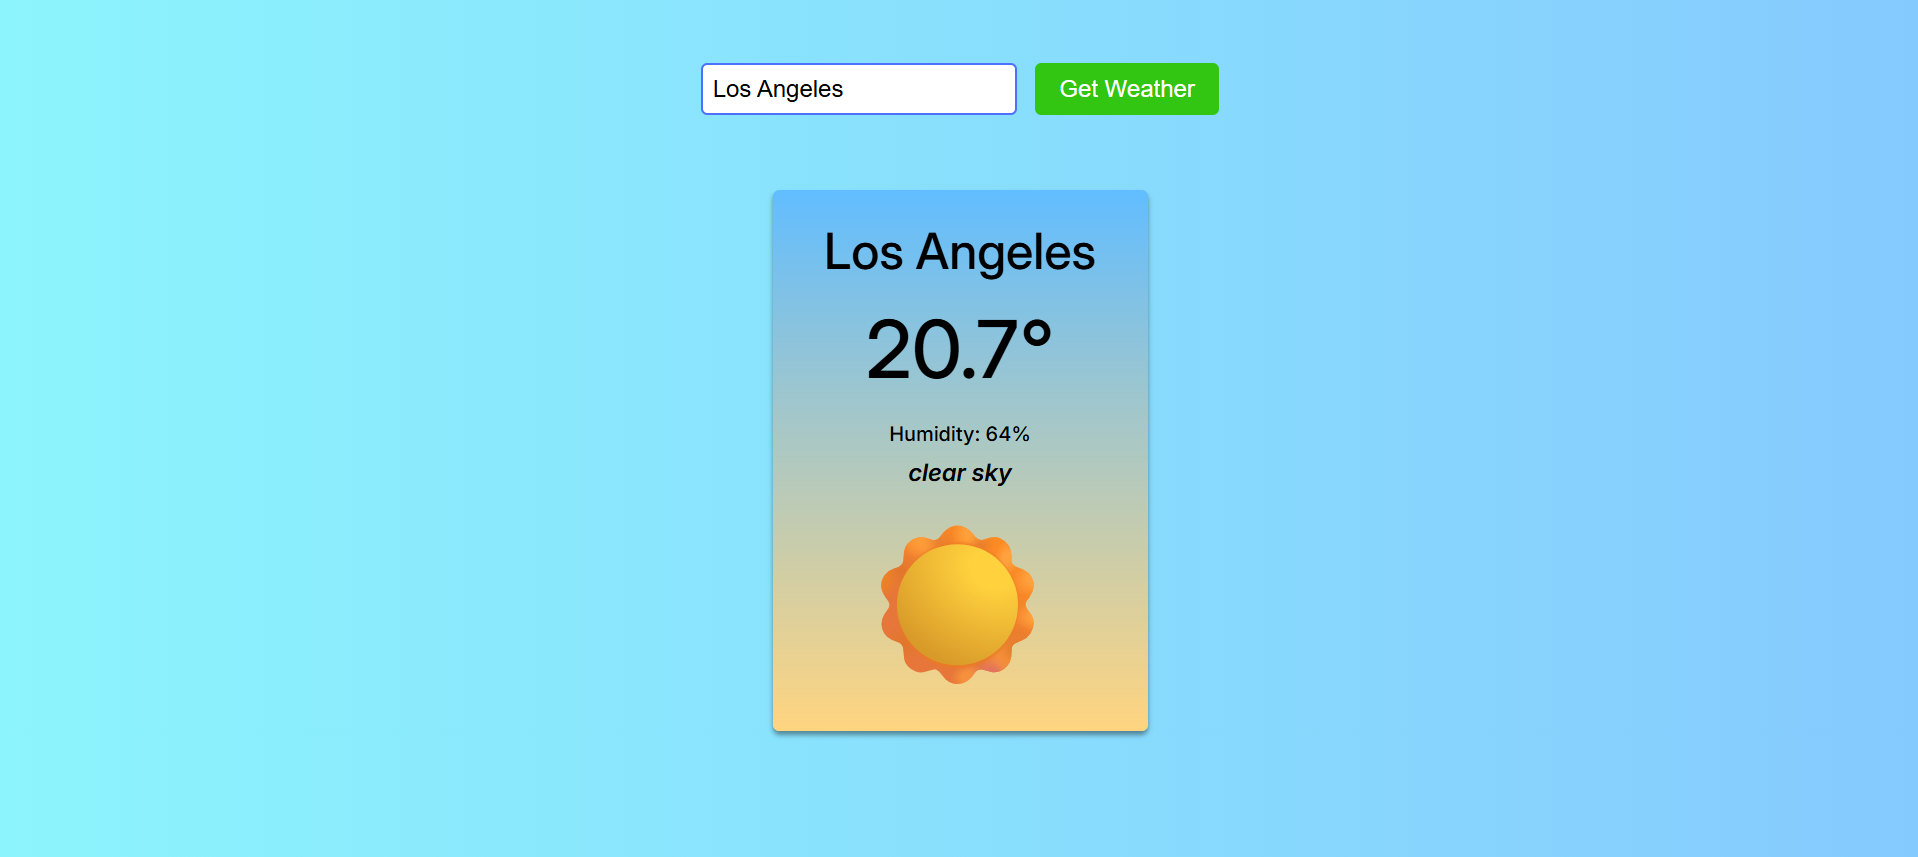
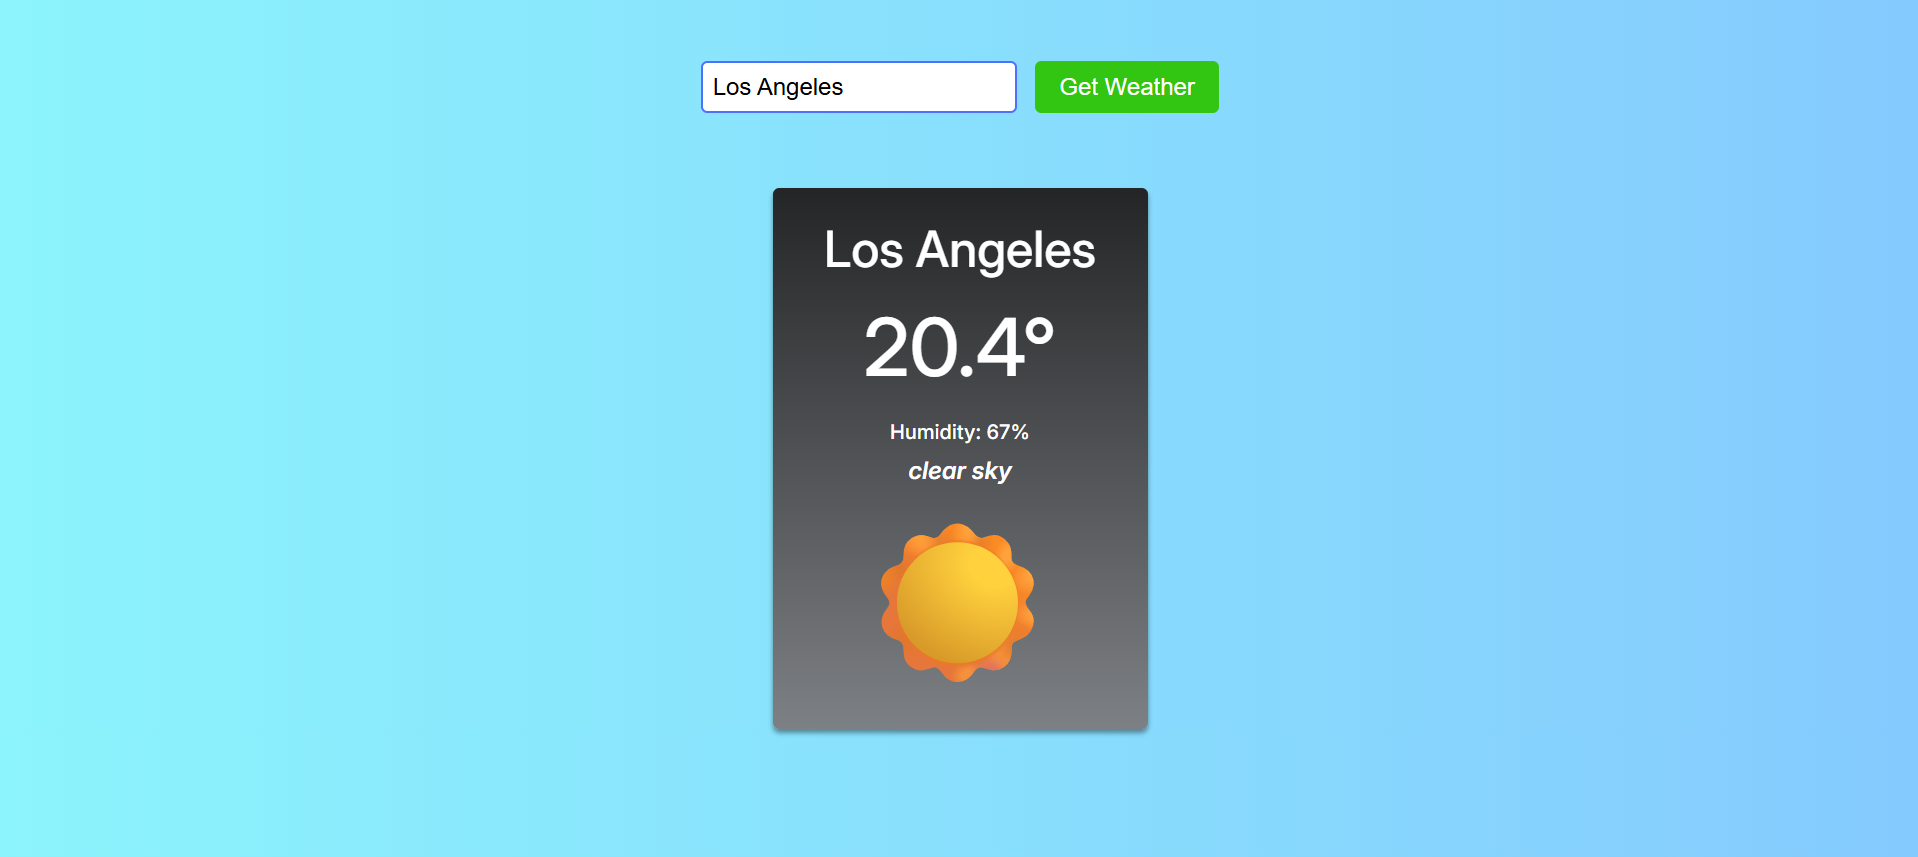
Change weather card background and update screenshot

Changed region(s): [[0.3999, 0.2124, 0.6152, 0.8798], [0.3691, 0.0607, 0.5229, 0.1517], [0.5537, 0.091, 0.6152, 0.1214]]

diff --git a/styles.css b/styles.css
@@ -48,7 +48,8 @@ button:hover {
 }
 
 .card {
-    background: linear-gradient(to bottom, hsl(205, 100%, 69%), hsl(40, 100%, 75%));
+    background: linear-gradient(#232526, #7d8084);
+    color: white;
     padding: 25px;
     border-radius: 5px;
     box-shadow: 0 3px 4px rgba(0, 0, 0, 0.4);

diff --git a/index.html b/index.html
@@ -16,9 +16,7 @@
         <button type="submit">Get Weather</button>
     </form>
     
-    <div class="card">
-        
-    </div>
+    <div class="card"></div>
 
 </body>
 </html>
